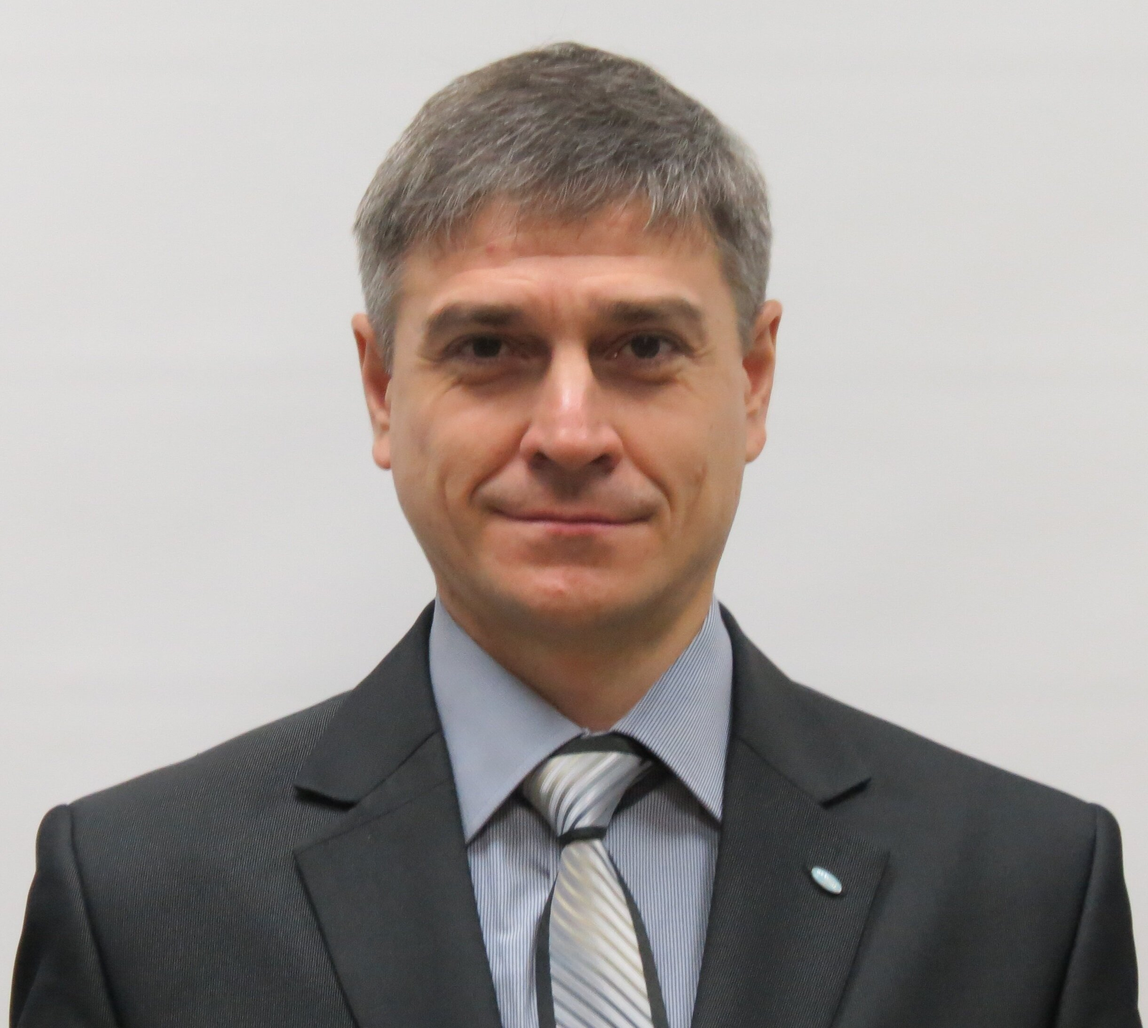
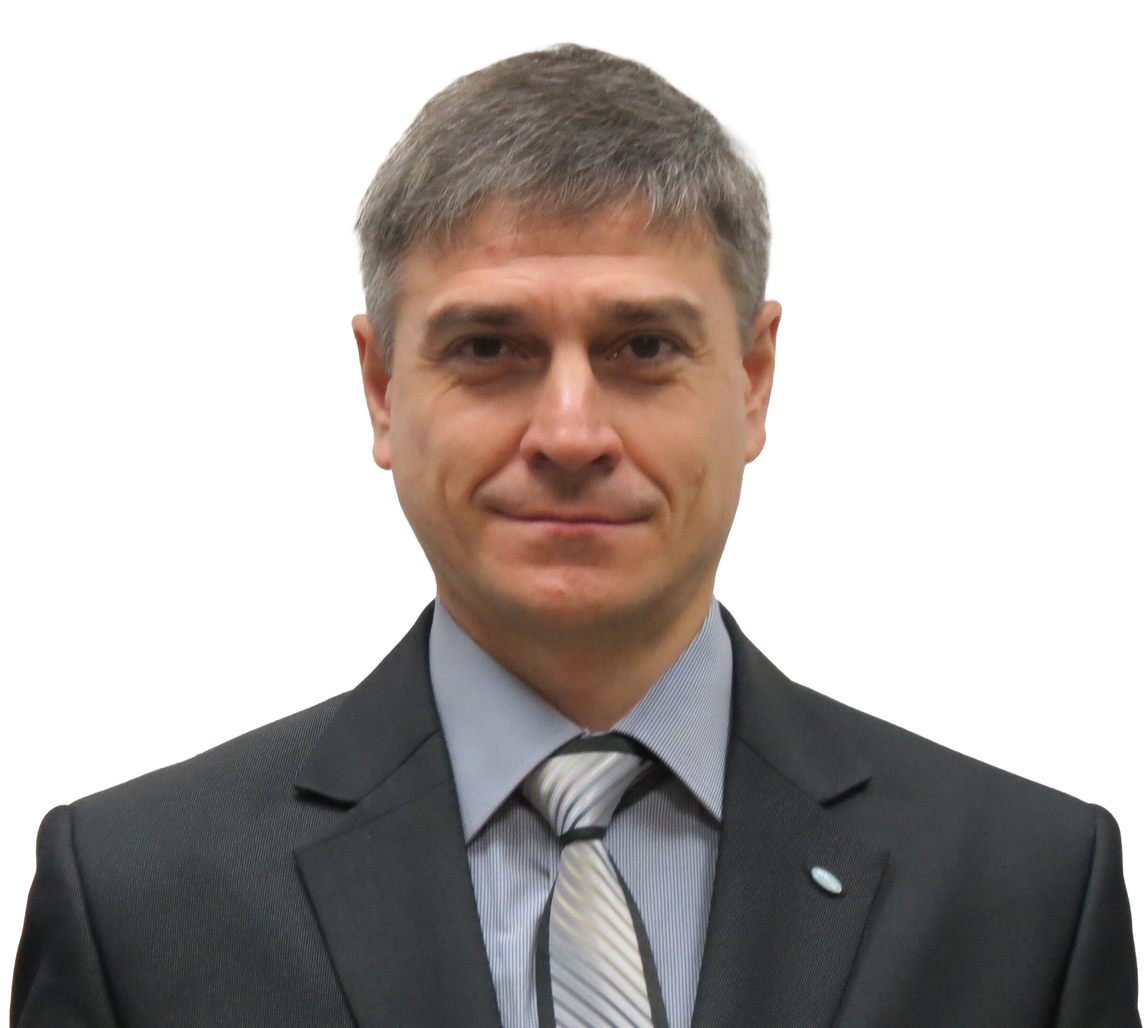
Новый фотографии

diff --git a/src/pages/educator/educator.jsx b/src/pages/educator/educator.jsx
@@ -20,7 +20,7 @@ const EducatorsInformation = [
 
   { id: 14, name: "Курылев Владимир Алексеевич", src: require("../../components/Educators/Kuryilev_Vladimir_Alekseevich.jpg") },
   { id: 15, name: "Тихонов Владимир Александрович", src: require("../../components/Educators/Tihonov_Vladimir_Aleksandrovich.jpg") },
-  { id: 16, name: "Фомченков Владимир Петрович", src: require("../../components/Educators/Fomchenkov_Vladimir_Petrovich.png") },
+  { id: 16, name: "Фомченков Владимир Петрович", src: require("../../components/Educators/Fomchenkov_Vladimir_Petrovich.jpg") },
   { id: 17, name: "Фомин Александр Иванович", src: require("../../components/Educators/Fomin_Aleksandr_Ivanovich.jpg") },
   { id: 18, name: "Андреев Михаил Алексеевич", src: require("../../components/Educators/Andreev_Mihail_Alekseevich.jpg") },
   { id: 19, name: "Федулова Светлана Александровна", src: require("../../components/Educators/Fedulova_Svetlana_Aleksandrovna.jpg") },
